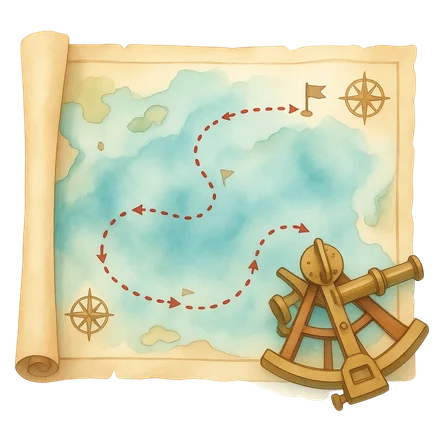
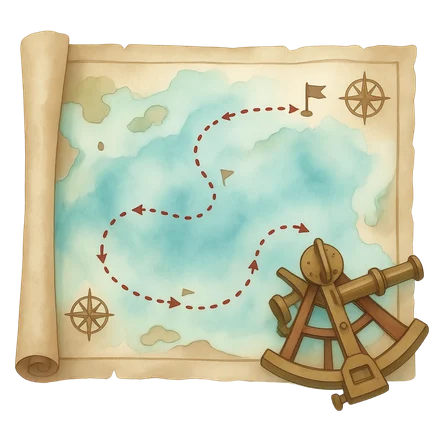
Tavern: refresh Charting + Parlor hub art
New charting + parlor icons. Charting unchanged (same floating map+sextant,
re-optimized). Parlor art changed to a floating quiz-board on transparent
bg, so its card switches from cover-scene to a floating subject on the
violet gradient (halo + gentle bob), matching the other hub cards.
Both re-optimized to webp (charting 29KB, parlor 18KB); raw PNGs dropped.

diff --git a/web/app/(app)/tavern/TriviaHubCard.tsx b/web/app/(app)/tavern/TriviaHubCard.tsx
@@ -1,10 +1,11 @@
 'use client'
 
+import { motion } from 'framer-motion'
 import ScenicCard from './ScenicCard'
 
 /** Tavern hub card for The Parlor — the single door into the trivia
- *  games (/tavern/trivia lobby). A painted tavern quiz-board scene fills
- *  the card; ScenicCard's scrim keeps the title readable over it. */
+ *  games (/tavern/trivia lobby). A painted pirate quiz-board floats on
+ *  the deep-violet study gradient, gentle bob only. */
 export default function TriviaHubCard() {
   return (
     <ScenicCard
@@ -13,13 +14,14 @@ export default function TriviaHubCard() {
       gradient={['#2a2050', '#191338', '#0c0a20']}
       accent="#a78bfa"
     >
-      {/* eslint-disable-next-line @next/next/no-img-element */}
-      <img
-        src="/parloricon.webp"
-        alt=""
-        draggable={false}
-        style={{ position: 'absolute', inset: 0, width: '100%', height: '100%', objectFit: 'cover', objectPosition: 'center 36%', pointerEvents: 'none' }}
-      />
+      {/* Lantern halo behind the board */}
+      <div aria-hidden style={{ position: 'absolute', top: 8, left: '50%', transform: 'translateX(-50%)', width: 180, height: 120, background: 'radial-gradient(ellipse at center, rgba(167,139,250,0.24) 0%, transparent 68%)', pointerEvents: 'none' }} />
+      {/* The quiz board, bobbing gently. */}
+      <motion.div aria-hidden animate={{ y: [0, -4, 0, 3, 0] }} transition={{ duration: 6.2, repeat: Infinity, ease: 'easeInOut' }}
+        style={{ position: 'absolute', top: 18, left: '50%', x: '-50%', pointerEvents: 'none' }}>
+        {/* eslint-disable-next-line @next/next/no-img-element */}
+        <img src="/parloricon.webp" alt="" draggable={false} style={{ height: 108, width: 'auto', display: 'block', objectFit: 'contain', filter: 'drop-shadow(0 5px 12px rgba(0,0,0,0.55))' }} />
+      </motion.div>
     </ScenicCard>
   )
 }
